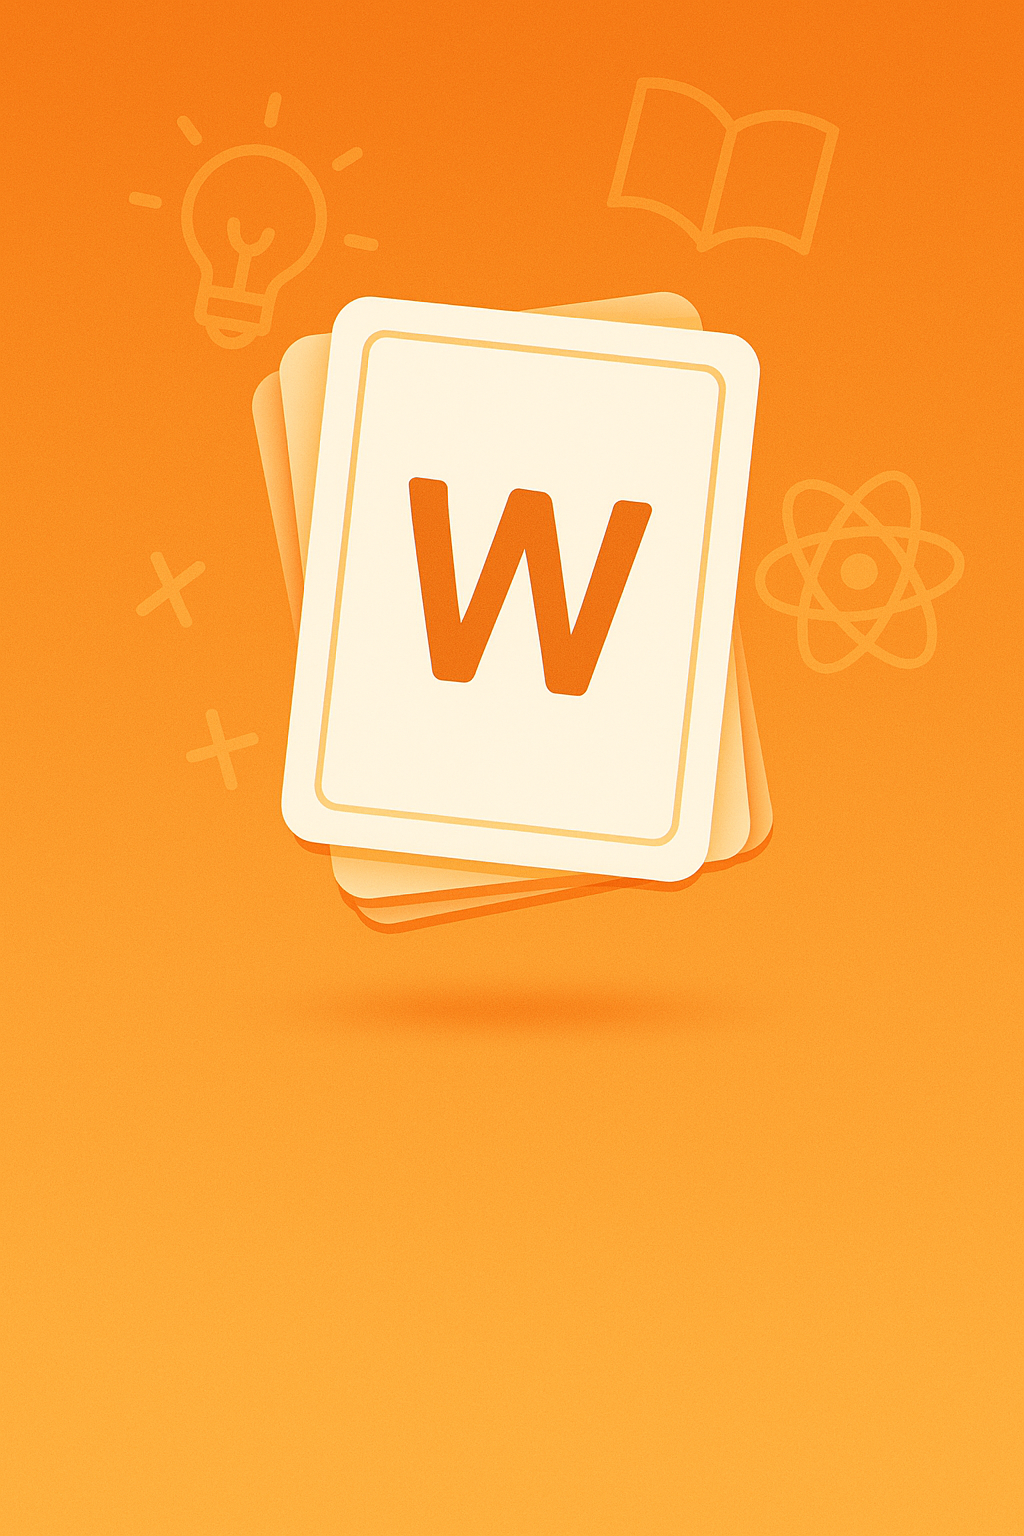
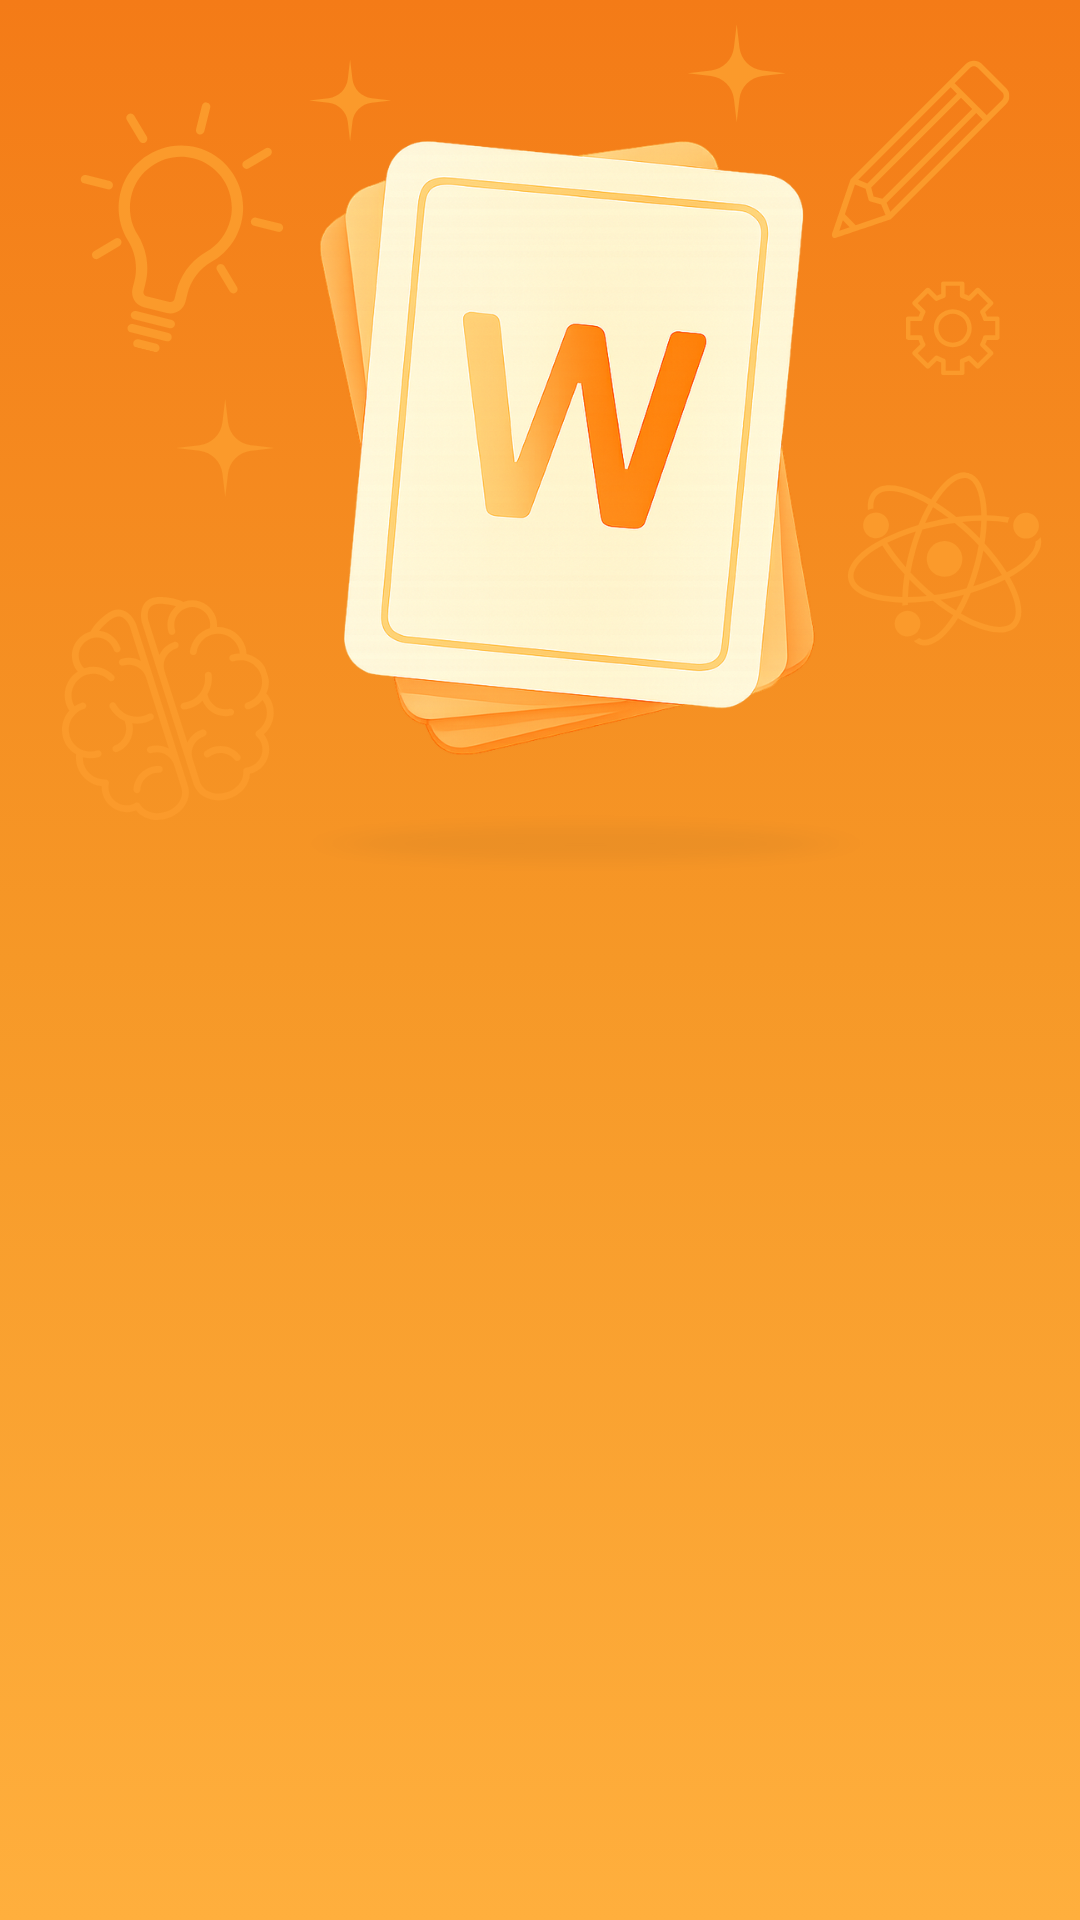
Added background for login ve sign up screen

diff --git a/screens/RegisterScreen.js b/screens/RegisterScreen.js
@@ -1,5 +1,5 @@
 import { useState } from 'react';
-import { StyleSheet, View, Text, TextInput, TouchableOpacity, Alert } from 'react-native';
+import { StyleSheet, View, Text, TextInput, TouchableOpacity, Alert, ImageBackground } from 'react-native';
 import { useAuth } from '../contexts/AuthContext';
 import { useTheme } from '../theme/theme';
 import { typography } from '../theme/typography';
@@ -37,58 +37,62 @@ export default function RegisterScreen({ navigation }) {
   };
 
   return (
-    <View style={[styles.container, { backgroundColor: colors.background }]}>
-      <Text style={[styles.title, typography.styles.h1, { color: colors.text }]}>Knowia</Text>
-      <Text style={[styles.subtitle, typography.styles.subtitle, { color: colors.subtext }]}>Kayıt Ol</Text>
+    <ImageBackground
+      source={require('../assets/bgtwo.png')}
+      style={styles.backgroundImage}
+      resizeMode="cover"
+    >
+      <View style={styles.container}>
+        <Text style={[styles.subtitle, typography.styles.subtitle, { color: '#fff' }]}>Kayıt Ol</Text>
+        <View style={styles.form}>
+          <TextInput
+            style={[styles.input, typography.styles.body, { borderColor: colors.border, color: colors.text }]}
+            placeholder="E-posta"
+            placeholderTextColor={colors.muted}
+            value={email}
+            onChangeText={setEmail}
+            autoCapitalize="none"
+            keyboardType="email-address"
+          />
+          <TextInput
+            style={[styles.input, typography.styles.body, { borderColor: colors.border, color: colors.text }]}
+            placeholder="Şifre"
+            placeholderTextColor={colors.muted}
+            value={password}
+            onChangeText={setPassword}
+            secureTextEntry
+          />
+          <TextInput
+            style={[styles.input, typography.styles.body, { borderColor: colors.border, color: colors.text }]}
+            placeholder="Şifre Tekrar"
+            placeholderTextColor={colors.muted}
+            value={confirmPassword}
+            onChangeText={setConfirmPassword}
+            secureTextEntry
+          />
 
-      <View style={styles.form}>
-        <TextInput
-          style={[styles.input, typography.styles.body, { borderColor: colors.border, color: colors.text }]}
-          placeholder="E-posta"
-          placeholderTextColor={colors.muted}
-          value={email}
-          onChangeText={setEmail}
-          autoCapitalize="none"
-          keyboardType="email-address"
-        />
-        <TextInput
-          style={[styles.input, typography.styles.body, { borderColor: colors.border, color: colors.text }]}
-          placeholder="Şifre"
-          placeholderTextColor={colors.muted}
-          value={password}
-          onChangeText={setPassword}
-          secureTextEntry
-        />
-        <TextInput
-          style={[styles.input, typography.styles.body, { borderColor: colors.border, color: colors.text }]}
-          placeholder="Şifre Tekrar"
-          placeholderTextColor={colors.muted}
-          value={confirmPassword}
-          onChangeText={setConfirmPassword}
-          secureTextEntry
-        />
+          <TouchableOpacity 
+            style={[styles.button, { backgroundColor: '#FF992B'}, loading && styles.buttonDisabled]}
+            onPress={handleRegister}
+            disabled={loading}
+          >
+            <Text style={[styles.buttonText, typography.styles.button, { color: colors.buttonText }]}>
+              {loading ? 'Kayıt yapılıyor...' : 'Kayıt Ol'}
+            </Text>
+          </TouchableOpacity>
 
-        <TouchableOpacity 
-          style={[styles.button, { backgroundColor: colors.buttonColor }, loading && styles.buttonDisabled]}
-          onPress={handleRegister}
-          disabled={loading}
-        >
-          <Text style={[styles.buttonText, typography.styles.button, { color: colors.buttonText }]}>
-            {loading ? 'Kayıt yapılıyor...' : 'Kayıt Ol'}
-          </Text>
-        </TouchableOpacity>
-
-        <TouchableOpacity 
-          style={styles.linkButton}
-          onPress={() => navigation.navigate('Login')}
-        >
-          <Text style={[styles.linkText, typography.styles.link, { color: colors.secondary }]}>
-            Zaten hesabınız var mı?{' '}
-            <Text style={typography.styles.linkBold}>Giriş yapın</Text>
-          </Text>
-        </TouchableOpacity>
+          <TouchableOpacity 
+            style={styles.linkButton}
+            onPress={() => navigation.navigate('Login')}
+          >
+            <Text style={[styles.linkText, typography.styles.link, { color: colors.secondary }]}>
+              Zaten hesabınız var mı?{' '}
+              <Text style={typography.styles.linkBold}>Giriş yapın</Text>
+            </Text>
+          </TouchableOpacity>
+        </View>
       </View>
-    </View>
+    </ImageBackground>
   );
 }
 
@@ -97,6 +101,7 @@ const styles = StyleSheet.create({
     flex: 1,
     padding: 20,
     justifyContent: 'center',
+    paddingTop: '65%',
   },
   title: {
     textAlign: 'center',
@@ -111,8 +116,10 @@ const styles = StyleSheet.create({
   },
   input: {
     borderWidth: 1,
+    borderColor: 'rgba(255, 255, 255, 0.5)',
     padding: 15,
     borderRadius: 10,
+    backgroundColor: 'rgba(255, 255, 255, 0.9)',
   },
   button: {
     padding: 15,
@@ -131,5 +138,10 @@ const styles = StyleSheet.create({
   },
   linkText: {
     // fontSize ve fontFamily artık typography'den geliyor
+  },
+  backgroundImage: {
+    flex: 1,
+    width: '100%',
+    height: '100%',
   },
 }); 

diff --git a/screens/LoginScreen.js b/screens/LoginScreen.js
@@ -53,7 +53,6 @@ export default function LoginScreen({ navigation }) {
       resizeMode="cover"
     >
       <View style={styles.container}>
-        <Text style={[styles.title, typography.styles.h1, { color: '#fff' }]}>Knowia</Text>
         <Text style={[styles.subtitle, typography.styles.subtitle, { color: '#fff' }]}>Giriş Yap</Text>
 
         <View style={styles.form}>
@@ -75,15 +74,24 @@ export default function LoginScreen({ navigation }) {
             secureTextEntry
           />
 
-          <TouchableOpacity 
-            style={[styles.button, { backgroundColor: colors.buttonColor }, loading && styles.buttonDisabled]}
-            onPress={handleLogin}
-            disabled={loading}
-          >
-            <Text style={[styles.buttonText, typography.styles.button, { color: colors.buttonText }]}>
-              {loading ? 'Giriş yapılıyor...' : 'Giriş Yap'}
-            </Text>
-          </TouchableOpacity>
+          <View style={styles.buttonRow}>
+            <TouchableOpacity
+              style={[styles.button, styles.forgotButton, { flex: 1 }]}
+              onPress={() => Alert.alert('Şifremi Unuttum', 'Şifre sıfırlama işlemi başlatılacak.')}
+              disabled={loading}
+            >
+              <Text style={[styles.buttonText, typography.styles.button, { color: '#FF992B' }]}>Şifremi Unuttum</Text>
+            </TouchableOpacity>
+            <TouchableOpacity 
+              style={[styles.button, { backgroundColor: colors.buttonColor, flex: 1 }, loading && styles.buttonDisabled]}
+              onPress={handleLogin}
+              disabled={loading}
+            >
+              <Text style={[styles.buttonText, typography.styles.button, { color: colors.buttonText }]}> 
+                {loading ? 'Giriş yapılıyor...' : 'Giriş Yap'}
+              </Text>
+            </TouchableOpacity>
+          </View>
 
           <View style={styles.divider}>
             <View style={[styles.dividerLine, { backgroundColor: colors.border }]} />
@@ -125,8 +133,8 @@ const styles = StyleSheet.create({
   container: {
     flex: 1,
     padding: 20,
-    paddingBottom: '15%',
-    justifyContent: 'flex-end',
+    paddingTop: '85%',
+    justifyContent: 'center',
   },
   title: {
     textAlign: 'center',
@@ -192,5 +200,15 @@ const styles = StyleSheet.create({
   },
   googleButtonText: {
     marginLeft: 10,
+  },
+  buttonRow: {
+    flexDirection: 'row',
+    gap: 4,
+    marginBottom: 10,
+  },
+  forgotButton: {
+    backgroundColor: 'rgba(255,255,255,0.7)',
+    borderWidth: 1,
+    borderColor: '#FF992B',
   },
 }); 
